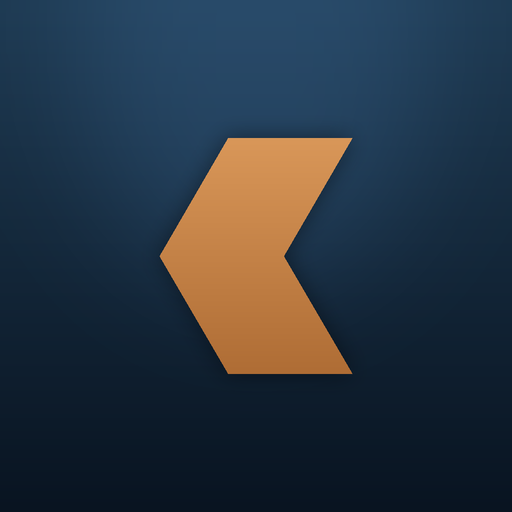
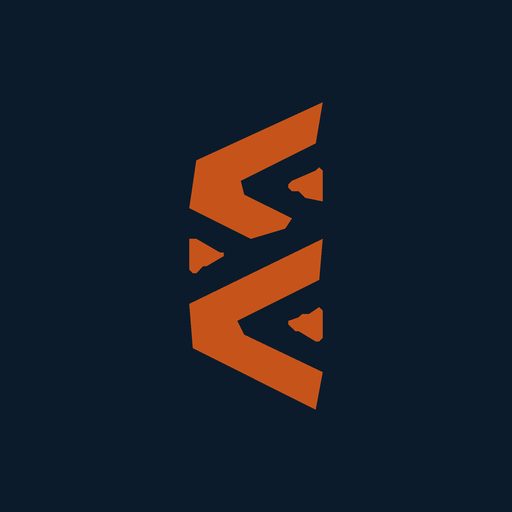
Pantalla de inicio nueva e iconos de celular con la marca real

diff --git a/index.html b/index.html
@@ -41,9 +41,16 @@ input:focus,select:focus{border-color:var(--copper);background:rgba(226,123,46,.
 select option{background:#0c1a2b}
 label{display:block;font-size:11px;color:var(--muted);margin-bottom:6px;letter-spacing:.4px;text-transform:uppercase}
 .field{margin-bottom:13px}
-#login{min-height:100vh;display:flex;flex-direction:column;justify-content:center;align-items:center;padding:30px 22px;background:radial-gradient(700px 380px at 80% 0%,rgba(226,123,46,.16),transparent 60%),linear-gradient(160deg,#0b1c2e,#08111c)}
+#login{min-height:100vh;display:flex;flex-direction:column;justify-content:center;align-items:center;padding:34px 22px;background:radial-gradient(900px 460px at 78% -6%,rgba(226,123,46,.20),transparent 62%),radial-gradient(700px 500px at 12% 108%,rgba(46,109,168,.16),transparent 60%),linear-gradient(160deg,#0b1c2e,#070f19)}
+.logo-login{width:210px;margin:0 auto 22px;display:block}
+.logo-login img{width:100%;height:auto;display:block}
+.lg-title{font-size:24px;margin:0;text-align:center;letter-spacing:.2px;font-weight:800;color:#fff}
+.lg-title span{color:var(--copper2)}
+.lg-sub{color:var(--muted);font-size:11px;letter-spacing:2.4px;text-transform:uppercase;text-align:center;margin:7px 0 24px}
+.lg-card{background:rgba(255,255,255,.045);border:1px solid rgba(255,255,255,.10);border-radius:16px;padding:20px 18px 18px;backdrop-filter:blur(6px);box-shadow:0 18px 44px rgba(0,0,0,.34)}
+.lg-foot{margin-top:20px;font-size:10px;letter-spacing:2px;text-transform:uppercase;color:rgba(255,255,255,.34);text-align:center;font-weight:700}
 .ticker{font-size:10px;letter-spacing:2px;color:var(--muted);font-weight:700;margin-bottom:18px;text-transform:uppercase;text-align:center}
-.loginbox{width:100%;max-width:380px}
+.loginbox{width:100%;max-width:372px}
 .logo-big{display:flex;flex-direction:column;align-items:center;gap:16px;margin-bottom:26px}
 .logo-big h1{font-size:21px;margin:0;text-align:center;letter-spacing:.5px}
 .logo-big .sub{color:var(--muted);font-size:11px;letter-spacing:3px;text-transform:uppercase;text-align:center;margin-top:5px}
@@ -299,17 +306,16 @@ h2.title{font-size:22px;margin:5px 0 4px}
 
 <div id="login">
   <div class="loginbox">
-    <div class="ticker">TSX: CS &nbsp;|&nbsp; ASX: CSC &nbsp;|&nbsp; capstonecopper.com</div>
-    <div class="logo-big">
-      <div id="logoLogin"></div>
-      <div><h1>MANTOS CONTROL <span style="color:var(--copper2)">360</span></h1>
-        <div class="sub">Mantos Blancos · Gestión de Costos · En vivo</div></div>
+    <div id="logoLogin" class="logo-login"></div>
+    <h1 class="lg-title">Mantos Control <span>360</span></h1>
+    <div class="lg-sub">Control de costos · Mina y Planta</div>
+    <div class="lg-card">
+      <div class="field"><label>Usuario</label><input id="lg_user" autocomplete="username" placeholder="nombre.apellido"></div>
+      <div class="field"><label>Contraseña</label><input id="lg_pass" type="password" autocomplete="current-password" placeholder="••••••••" onkeydown="if(event.key==='Enter')doLogin()"></div>
+      <button class="btn" id="lg_btn" onclick="doLogin()">Ingresar</button>
+      <div class="loginerr" id="lg_err"></div>
     </div>
-    <div class="field"><label>Usuario</label><input id="lg_user" autocomplete="username" placeholder="usuario" value=""></div>
-    <div class="field"><label>Contraseña</label><input id="lg_pass" type="password" autocomplete="current-password" placeholder="clave"></div>
-    <button class="btn" id="lg_btn" onclick="doLogin()">Ingresar</button>
-    <div class="loginerr" id="lg_err"></div>
-    <div class="demo-creds">Ingresa con tu usuario y clave para ver los costos en vivo.</div>
+    <div class="lg-foot">Capstone Copper &nbsp;·&nbsp; Mantos Blancos &nbsp;·&nbsp; Chile</div>
   </div>
 </div>
 
@@ -358,7 +364,7 @@ const ADMIN_MODS=['usuarios','claves','config'];
 const MESES=['Ene','Feb','Mar','Abr','May','Jun','Jul','Ago','Sep','Oct','Nov','Dic'];
 const ANIO=2026; /* año de trabajo — el histórico multianual está pendiente (mantos_costs no tiene columna de año) */
 const MES_ACTUAL=(function(){var h=new Date();var y=h.getFullYear();return y===ANIO?h.getMonth():(y>ANIO?11:0);})();
-const APP_VERSION='2026-08-18n · marca oficial Capstone + arregla exportar a PPT';
+const APP_VERSION='2026-08-18o · inicio nuevo + icono e imagen de marca oficiales';
 
 /* ===== Estado ===== */
 let DB={}, SESSION=null, CURRENT='dashboard', EDIT_AREA={}, INF_FILTER='all', CFG_TAB='datos', SCOPE=null;
